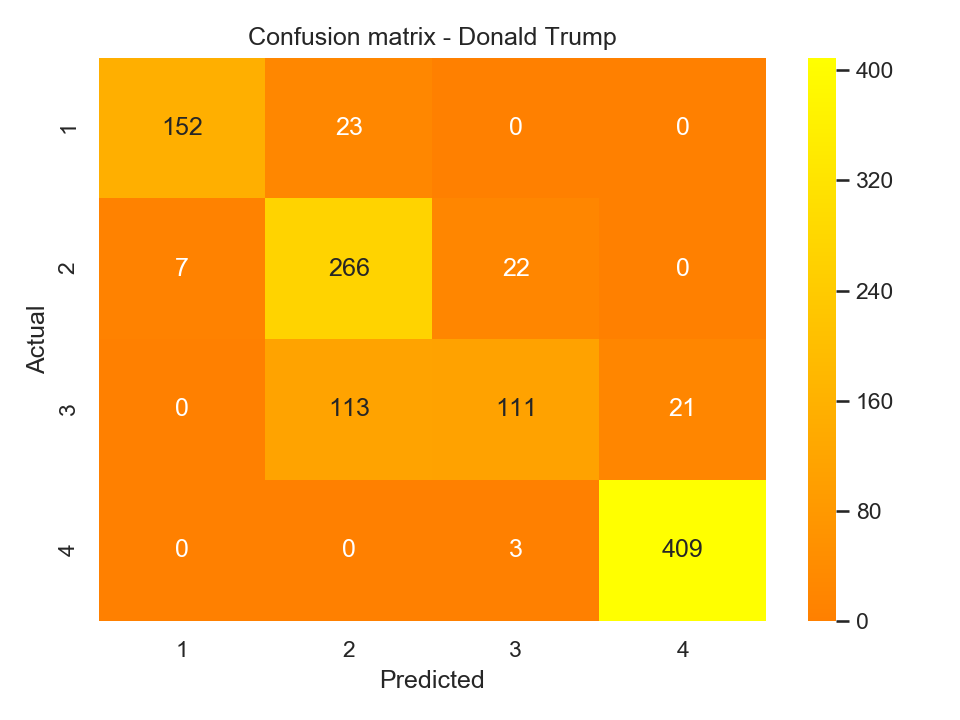
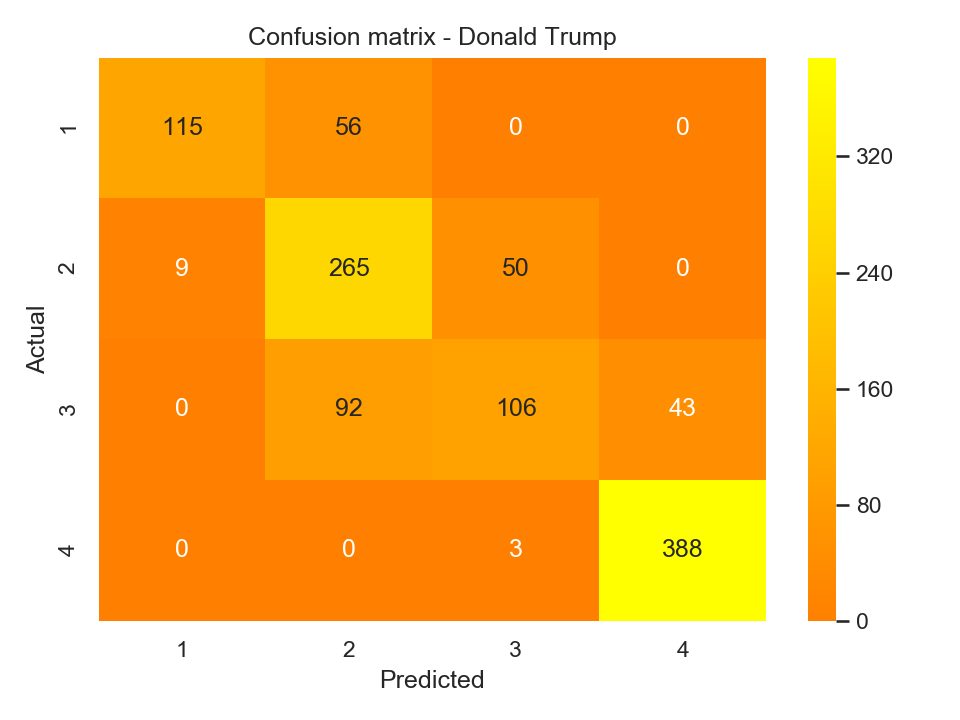
Update

diff --git a/Predict_Retweet.py b/Predict_Retweet.py
@@ -1,6 +1,8 @@
 # Tweet Analysis -- objective, predict the retweet level of a tweet
 import string
 import seaborn as sns
+sns.set()
+
 import pandas as pd
 import matplotlib.pyplot as plt
 import numpy as np
@@ -67,6 +69,7 @@ df.drop(['id', 'is_retweet', 'original_author', 'in_reply_to_screen_name', 'in_r
 df['actual_date'] = df['time'].str[:10]
 df['actual_date'] = pd.to_datetime(df['actual_date'], format='%Y/%m/%d')
 
+
 # actual time
 df['actual_time'] = df['time'].str[11:]
 df['actual_time'] = pd.to_datetime(df["actual_time"], format='%H:%M:%S').dt.time
@@ -92,6 +95,10 @@ df['month'] = df['month'].astype(str)
 
 # get weekday -- i would like  to know if there is a pattern for high retweet based on what day it was posted
 df['week_day'] = df['actual_date'].dt.dayofweek
+
+df = df[
+    (df['actual_date'] >= '2016-4-1') & (df['actual_date'] <= '2016-9-30')]
+
 
 
 # Let's clean the tweet text and create columns at the same time
@@ -125,6 +132,7 @@ def text_cleanup(column):
     df['work_count'] = df.text.str.count("work")
     df['stronger_count'] = df.text.str.count("stronger")
     df['america_count'] = df.text.str.count("america")
+
 
 # execute the cleanup
 text_cleanup('text')
@@ -165,9 +173,6 @@ df['favorite_class'] = np.where(df['favorite_count'].between(0, 2000), 1,
                                 np.where(df['favorite_count'].between(2001, 4000), 2,
                                          np.where(df['favorite_count'].between(4001, 6000), 3, 4)))
 
-# add specific word
-
-
 # get clinton data only to test
 dfc = df[df['handle'] == 'HillaryClinton']
 
@@ -177,11 +182,11 @@ dft = df[df['handle'] == 'realDonaldTrump']
 # get the features for processing
 dfc_tweet = dfc[['retweet_class', 'sentiment_class', 'favorite_class', 'hashtag_count', 'mention_count',
                  'week_day', 'hour', 'session', 'retweet_count', 'favorite_count',
-                 'pos', 'neg', 'neu', 'compound', 'work_count', 'stronger_count', 'america_count']]
+                 'pos', 'neg', 'neu', 'compound', 'work_count', 'stronger_count', 'america_count', 'month']]
 
 dft_tweet = dft[['retweet_class', 'sentiment_class', 'favorite_class', 'hashtag_count', 'mention_count',
                  'week_day', 'hour', 'session', 'retweet_count', 'favorite_count',
-                 'pos', 'neg', 'neu', 'compound', 'work_count', 'stronger_count', 'america_count']]
+                 'pos', 'neg', 'neu', 'compound', 'work_count', 'stronger_count', 'america_count', 'month']]
 
 # different features for experiment
 # feature_names = ['sentiment_class', 'session', 'week_day', 'mention_count']
@@ -239,6 +244,7 @@ dfc_tweet.to_csv('data/clinton_predict.csv')
 
 # Cross validation using cross_val_score
 from sklearn.model_selection import cross_val_score, ShuffleSplit
+
 print(f'Hillary Clinton: ', cross_val_score(lr, X, y, cv=5))
 
 # Cross validation using shuffle split
@@ -249,7 +255,7 @@ print(f'Hillary Clinton: ', cross_val_score(lr, X, y, cv=cv))
 # Heat Map
 sns.set()
 
-class_names=[1, 2, 3, 4] # name  of classes
+class_names = [1, 2, 3, 4]  # name  of classes
 fig, ax = plt.subplots()
 tick_marks = np.arange(len(class_names))
 plt.xticks(tick_marks, class_names)
@@ -308,9 +314,9 @@ print(f1_score(y_test, predicted_values, average="macro"))
 
 dft_tweet.to_csv('data/trump_predict.csv')
 
-
 # Cross validation using cross_val_score
 from sklearn.model_selection import cross_val_score, ShuffleSplit
+
 print(f'Donald Trump: ', cross_val_score(lr, X, y, cv=5))
 
 # Cross validation using shuffle split
@@ -321,7 +327,7 @@ print(cross_val_score(lr, X, y, cv=cv))
 # Heat Map
 sns.set()
 
-class_names=[1, 2, 3, 4] # name  of classes
+class_names = [1, 2, 3, 4]  # name  of classes
 fig, ax = plt.subplots()
 tick_marks = np.arange(len(class_names))
 plt.xticks(tick_marks, class_names)
@@ -339,3 +345,94 @@ plt.tight_layout()
 plt.savefig('figures/trump-confusion-matrix.png', dpi=300)
 plt.close()
 
+# # Set 3
+# dfc groupby
+dfc1 = dfc.groupby(['handle', 'actual_date'], as_index=False).agg({'retweet_count': 'sum',
+                                                                 'favorite_count': 'sum',
+                                                                 'pos': 'sum', 'neg': 'sum', 'neu': 'sum',
+                                                                 'compound': 'sum'})
+# dft groupby
+dft1 = dft.groupby(['handle', 'actual_date'], as_index=False).agg({'retweet_count': 'sum',
+                                                                 'favorite_count': 'sum', 'pos': 'sum', 'neg': 'sum', 'neu': 'sum',
+                                                                 'compound': 'sum'})
+
+bar_width = .1
+x = np.arange(len(dfc1.actual_date.unique()))
+
+
+fig, ax = plt.subplots(1, 1, figsize=(5, 5), dpi=100)
+plt.style.use("ggplot")
+
+b1 = ax.scatter(x, dfc1['pos'], label="Positive", alpha=0.7, color="green")
+
+# Same thing, but offset the x by the width of the bar.
+b2 = ax.scatter(x + bar_width, dfc1['neu'], label="Neutral",
+                alpha=0.7, color="gray")
+b3 = ax.scatter(x + bar_width, dfc1['neg'], label="Negative",
+                alpha=0.7, color="red")
+
+ax.set_xticks(x + bar_width)
+ax.set_xticklabels(dfc1.actual_date.unique())
+
+# set the ticks font to 8
+for tick in ax.xaxis.get_major_ticks():
+    tick.label.set_fontsize(8)
+for tick in ax.yaxis.get_major_ticks():
+    tick.label.set_fontsize(8)
+
+# ensure the format of the y axis using the actual values and not exponential
+ax.get_yaxis().get_major_formatter().set_scientific(False)
+
+# Add legend.
+ax.legend(prop={'size': 10})
+
+# Add axis and chart labels.
+ax.set_xlabel('Tweet Date', labelpad=10, fontsize=10, fontweight='bold')
+ax.set_ylabel('Sentiment Score', labelpad=10, fontsize=10, fontweight='bold')
+ax.set_title('Hillary Clinton Sentiment', pad=10, fontsize=12, fontweight='bold')
+
+fig.tight_layout()
+plt.savefig('figures/hillary_sentiment.png', dpi=300)
+plt.show()
+plt.close()
+
+# trump sentiment
+bar_width = .1
+x = np.arange(len(dft1.actual_date.unique()))
+
+
+fig, ax = plt.subplots(1, 1, figsize=(5, 5), dpi=100)
+plt.style.use("ggplot")
+
+b1 = ax.scatter(x, dft1['pos'], label="Positive", alpha=0.7, color="green")
+
+# Same thing, but offset the x by the width of the bar.
+b2 = ax.scatter(x + bar_width, dft1['neu'], label="Neutral",
+                alpha=0.7, color="gray")
+b3 = ax.scatter(x + bar_width, dft1['neg'], label="Negative",
+                alpha=0.7, color="red")
+
+ax.set_xticks(x + bar_width)
+ax.set_xticklabels(dft1.actual_date.unique())
+
+# set the ticks font to 8
+for tick in ax.xaxis.get_major_ticks():
+    tick.label.set_fontsize(8)
+for tick in ax.yaxis.get_major_ticks():
+    tick.label.set_fontsize(8)
+
+# ensure the format of the y axis using the actual values and not exponential
+ax.get_yaxis().get_major_formatter().set_scientific(False)
+
+# Add legend.
+ax.legend(prop={'size': 10})
+
+# Add axis and chart labels.
+ax.set_xlabel('Tweet Date', labelpad=10, fontsize=10, fontweight='bold')
+ax.set_ylabel('Sentiment Score', labelpad=10, fontsize=10, fontweight='bold')
+ax.set_title('Donald Trump Sentiment', pad=10, fontsize=12, fontweight='bold')
+
+fig.tight_layout()
+plt.savefig('figures/donald_sentiment.png', dpi=300)
+plt.show()
+plt.close()

diff --git a/Trump-Logistic-Regression.py b/Trump-Logistic-Regression.py
@@ -58,6 +58,9 @@ df.drop(['id', 'is_retweet', 'original_author', 'in_reply_to_screen_name', 'in_r
 df['actual_date'] = df['time'].str[:10]
 df['actual_date'] = pd.to_datetime(df['actual_date'], format='%Y/%m/%d')
 
+df = df[
+    (df['actual_date'] >= '2016-4-1') & (df['actual_date'] <= '2016-9-30')]
+
 # actual time
 df['actual_time'] = df['time'].str[11:]
 df['actual_time'] = pd.to_datetime(df["actual_time"], format='%H:%M:%S').dt.time

diff --git a/main.py b/main.py
@@ -1,0 +1,5 @@
+# Calling all my short-lived python programs
+from subprocess import call
+call(["python", "Clinton-Logistic-Regression.py"])
+call(["python", "Trump-Logistic-Regression.py"])
+
